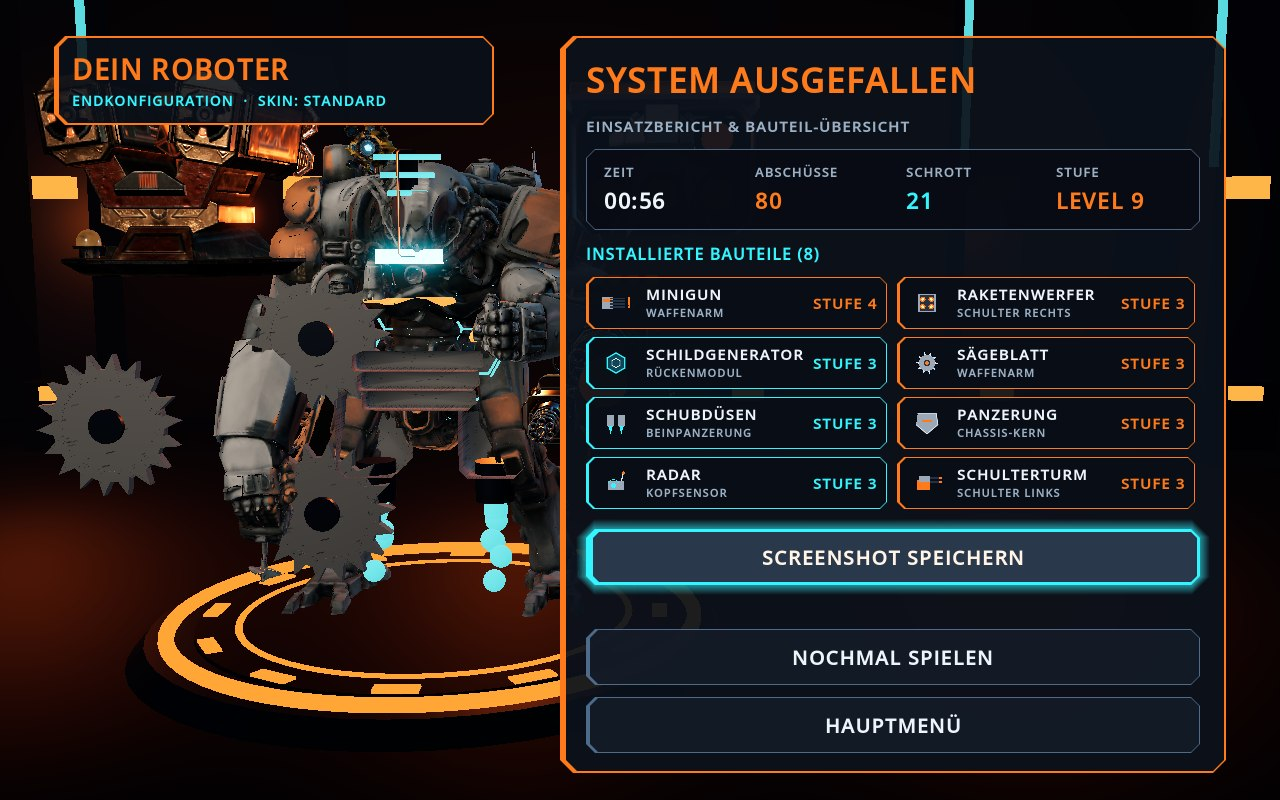
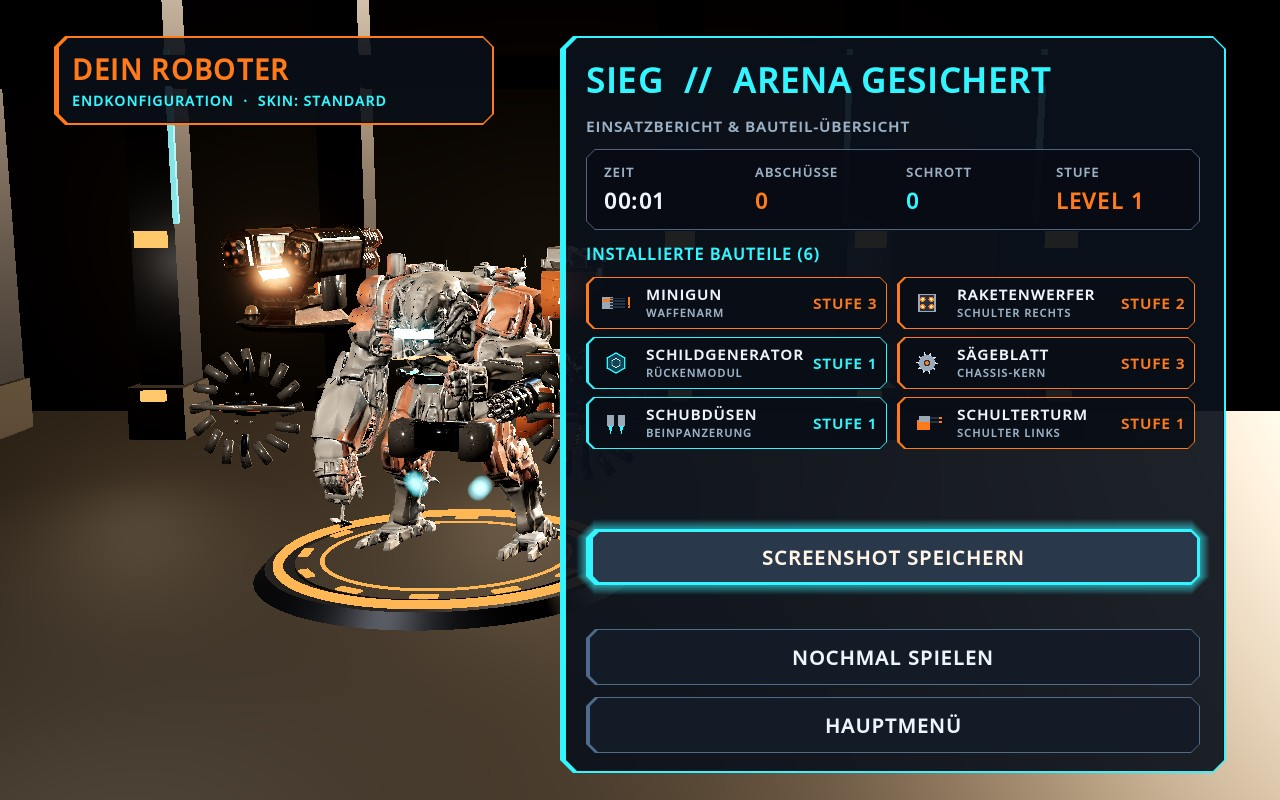
Update README text and screenshots for current game features and arenas

diff --git a/README.md b/README.md
@@ -1,18 +1,20 @@
 # Scrapforge v0.2
 
-Ein modularer Roguelike-Survivor: Der Mech bewegt sich durch eine Arena, feuert automatisch und sammelt Schrott für Aufstiege. Wähle Bauteile und entwickle Raketenwerfer und Radar zum Schwarm-Werfer. Nach fünf Minuten erscheint der Boss; sein Abschuss oder zehn Minuten Überleben bedeuten den Sieg.
+Ein modularer Roguelike-Survivor: Der Mech bewegt sich durch eine Arena, feuert automatisch und sammelt Schrott für Aufstiege und Beutekisten. Wähle Waffen- und Support-Module, schalte **Waffen-Evolutionen** (wie Schwarm-Werfer, Vulcan, Prisma-Laser, Inferno, Singularität, Bastion-Schild oder Drohnen-Schwarm) frei und stelle dich Elitegegnern sowie dem Boss nach fünf Minuten Einsatzzeit.
 
-Im Hangar stehen fünf Skins zur Auswahl. Das Ergebnis zeigt Statistiken und den fertigen Mech; ein Screenshot lässt sich im Godot-Benutzerordner speichern. Im Einstellungsmenü werden Lautstärke für Master, Musik und Effekte, Bildschirmwackeln und Vollbild gespeichert. Musik und Soundeffekte können getrennt geregelt werden.
+Im Hangar stehen fünf Lackierungen, **dauerhafte Hangar-Upgrades** (Hüllen-Panzerung, Waffen-Kalibrierung, Servomotoren, Schrott-Recycler, Magnetfeld-Kern), Ziele & Freischaltungen sowie die **zweite Arena (Verladehof)** mit Nachtregen und dem Belagerungs-Koloss zur Auswahl. Das Ergebnis zeigt Statistiken und den fertigen Mech; ein Screenshot lässt sich im Godot-Benutzerordner speichern. Im Einstellungsmenü werden Grafikqualität, Lautstärke für Master, Musik und Effekte, Bildschirmwackeln und Vollbild gespeichert.
 
-Die Arena zeigt den Colossus Walker 2 mit modularen Sketchfab-Waffen, neue Spinnengegner und einen Spinnenboss. Die Blender-Aufbereitung ist unter [tools/blender/](tools/blender/README.md) beschrieben. Angaben zu den verwendeten Modellen und ihrer CC-BY-4.0-Lizenz stehen in [CREDITS.md](CREDITS.md).
+Die Arena zeigt den Colossus Walker 2 mit modularen Waffen, Spinnengegnern, Sturm-Drohnen und Bossen. Die Blender-Aufbereitung ist unter [tools/blender/](tools/blender/README.md) beschrieben. Angaben zu verwendeten Fremdassets und ihren Lizenzen stehen in [CREDITS.md](CREDITS.md).
 
 ## Screenshots
 
-| Schwarm | Boss: Spinnen-Mech |
+| Schwarm (Schrott-Halle) | Boss: Spinnen-Mech |
 |---|---|
 | ![Der Mech im Spinnenschwarm](docs/screenshots/schwarm.jpg) | ![Kampf gegen den Spinnen-Mech](docs/screenshots/boss.jpg) |
-| **Skins im Hangar** | **Einsatzbericht** |
-| ![Die fünf Mech-Skins](docs/screenshots/skins.jpg) | ![Ergebnis mit Endkonfiguration des Roboters](docs/screenshots/ergebnis.jpg) |
+| **Hangar & Dauerhafte Upgrades** | **Einsatzbericht** |
+| ![Hangar mit Lackierungen und Upgrades](docs/screenshots/hangar.jpg) | ![Ergebnis mit Endkonfiguration des Roboters](docs/screenshots/ergebnis.jpg) |
+| **Verladehof (Zweite Arena)** | |
+| ![Verladehof mit Regen und neuen Gegnern](docs/screenshots/verladehof.jpg) | |
 
 ## Steuerung
 
